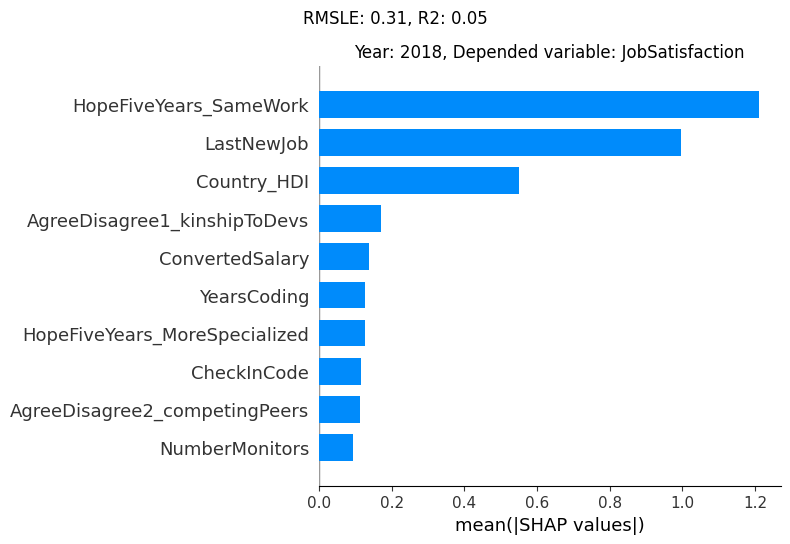
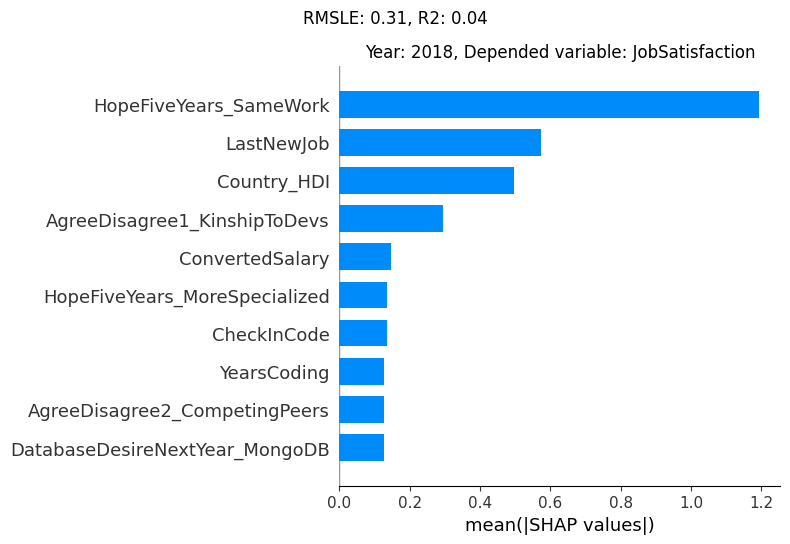
update

diff --git a/code/preprocessor.py b/code/preprocessor.py
@@ -205,9 +205,9 @@ agree_keys = [
     'AgreeDisagree1',
     'AgreeDisagree2',
     'AgreeDisagree3',
-    "AgreeDisagree1_kinshipToDevs",
-    "AgreeDisagree2_competingPeers",
-    "AgreeDisagree3_worseThanPeers",
+    "AgreeDisagree1_KinshipToDevs",
+    "AgreeDisagree2_CompetingPeers",
+    "AgreeDisagree3_WorseThanPeers",
     'AnnoyingUI',
     'BoringDetails',
     'BuildingThings',
@@ -428,6 +428,11 @@ important_strs = {
 }
 
 to_drop_before_start = [
+    'StackOverflowCompanyPage',
+    'StackOverflowJobSearch',
+    'StackOverflowJobListing',
+    'StackOverflowMetaChat',
+    'AssessJobDiversity',
     'CommunicationTools',
     'ExpectedSalary',
     'AdBlocker',
@@ -728,7 +733,7 @@ replacers = [
         "the quality of oss and closed source software is about the same": 1,
         "oss is, on average, of lower quality than proprietary / closed source software": 0,
     }),
-    (['MgrIdiot'], {
+    (['MgrIncompetent', 'MgrIdiot'], {
         "not at all confident": 0,
         "somewhat confident": 1,
         "very confident": 2,
@@ -841,7 +846,9 @@ def preprocess(data, year):
         "HaveWorkedFramework": "FrameworkWorkedWith",
         "HaveWorkedDatabase": "DatabaseWorkedWith",
         "HaveWorkedPlatform": "PlatformWorkedWith",
-        "DeveloperType": "DevType"
+        "DeveloperType": "DevType",
+        "MgrIdiot": "MgrIncompetent",
+        "LastHireDate": "LastNewJob"
     }, inplace=True)
     if year == 2019:
         data.rename(columns={"OpenSource": "OpenSourceQuality",
@@ -851,30 +858,30 @@ def preprocess(data, year):
                     inplace=True)
     elif year == 2018:
         data.rename(columns={"JobSatisfaction": "JobSat7", "CareerSatisfaction": "CareerSat7",
-                             "AgreeDisagree1": "AgreeDisagree1_kinshipToDevs",
-                             "AgreeDisagree2": "AgreeDisagree2_competingPeers",
-                             "AgreeDisagree3": "AgreeDisagree3_worseThanPeers",
-                             "AssessJob1": "AssessJob1_industry",
-                             "AssessJob2": "AssessJob2_companyFinancialStatus",
-                             "AssessJob3": "AssessJob3_department",
-                             "AssessJob4": "AssessJob4_languages",
-                             "AssessJob5": "AssessJob5_compensation",
-                             "AssessJob6": "AssessJob6_companyCulture",
-                             "AssessJob7": "AssessJob7_remoteJob",
-                             "AssessJob8": "AssessJob8_development",
-                             "AssessJob9": "AssessJob9_diversity",
-                             "AssessJob10": "AssessJob10_projectImpact",
-                             "AssessBenefits1": "AssessBenefits1_salary",
-                             "AssessBenefits2": "AssessBenefits2_stockOrShares",
-                             "AssessBenefits3": "AssessBenefits3_healthInsurance",
-                             "AssessBenefits4": "AssessBenefits4_parentalLeave",
-                             "AssessBenefits5": "AssessBenefits5_multisport",
-                             "AssessBenefits6": "AssessBenefits6_retirementPlan",
-                             "AssessBenefits7": "AssessBenefits7_mealsAndSnacks",
-                             "AssessBenefits8": "AssessBenefits8_computerAllowance",
-                             "AssessBenefits9": "AssessBenefits9_childcare",
-                             "AssessBenefits10": "AssessBenefits10_transport",
-                             "AssessBenefits11": "AssessBenefits11_eduBudget",
+                             "AgreeDisagree1": "AgreeDisagree1_KinshipToDevs",
+                             "AgreeDisagree2": "AgreeDisagree2_CompetingPeers",
+                             "AgreeDisagree3": "AgreeDisagree3_WorseThanPeers",
+                             "AssessJob1": "AssessJob1_Industry",
+                             "AssessJob2": "AssessJob2_CompanyFinancialStatus",
+                             "AssessJob3": "AssessJob3_Department",
+                             "AssessJob4": "AssessJob4_Languages",
+                             "AssessJob5": "AssessJob5_Compensation",
+                             "AssessJob6": "AssessJob6_CompanyCulture",
+                             "AssessJob7": "AssessJob7_RemoteJob",
+                             "AssessJob8": "AssessJob8_Development",
+                             "AssessJob9": "AssessJob9_Diversity",
+                             "AssessJob10": "AssessJob10_ProjectImpact",
+                             "AssessBenefits1": "AssessBenefits1_Salary",
+                             "AssessBenefits2": "AssessBenefits2_StockOrShares",
+                             "AssessBenefits3": "AssessBenefits3_HealthInsurance",
+                             "AssessBenefits4": "AssessBenefits4_ParentalLeave",
+                             "AssessBenefits5": "AssessBenefits5_Multisport",
+                             "AssessBenefits6": "AssessBenefits6_RetirementPlan",
+                             "AssessBenefits7": "AssessBenefits7_MealsAndSnacks",
+                             "AssessBenefits8": "AssessBenefits8_ComputerAllowance",
+                             "AssessBenefits9": "AssessBenefits9_Childcare",
+                             "AssessBenefits10": "AssessBenefits10_Transport",
+                             "AssessBenefits11": "AssessBenefits11_EduBudget"
                              }, inplace=True)
     to_drop_first_filtered = list(set(data.columns).intersection(to_drop_before_start))
     data.drop(to_drop_first_filtered, axis=1, inplace=True)

diff --git a/latex/chapters/ch_dodatki.tex b/latex/chapters/ch_dodatki.tex
@@ -109,11 +109,11 @@
         \item \textbf{"StackOverflowAnswer"} - W ciągu ostatnich 3 miesięcy jak często udzieliłeś odpowiedzi na czyjś problem na forum Stack Overflow?
         \item \textbf{"StackOverflowBetter"} - Czy uważasz, że forum Stack Overflow sprawia, że internet jest lepszym miejscem?
         \item \textbf{"StackOverflowCommunity"} - Czy czujesz się jak członek społeczności forum Stack Overflow?
-        \item \textbf{"StackOverflowCompanyPage"} - W ciągu ostatnich 3 miesięcy jak często szukałeś na Stack Overflow informacji o potencjalnym pracodawcy?
+%         \item \textbf{"StackOverflowCompanyPage"} - W ciągu ostatnich 3 miesięcy jak często szukałeś na Stack Overflow informacji o potencjalnym pracodawcy?
         \item \textbf{"StackOverflowCopiedCode"} - W ciągu ostatnich 3 miesięcy jak często skopiowałeś przykład rozwiązania z forum Stack Overflow?
         \item \textbf{"StackOverflowFoundAnswer"} - W ciągu ostatnich 3 miesięcy jak często znalazłeś odpowiedź na swój problem na forum Stack Overflow?
         \item \textbf{"StackOverflowHelpful"} - Czy uważasz, że odpowiedzi na forum Stack Overflow są pomocne?
-        \item \textbf{"StackOverflowJobListing"} - W ciągu ostatnich 3 miesięcy jak często widziałeś na Stack Overflow ofertę pracy, która cię zainteresowała?
+%         \item \textbf{"StackOverflowJobListing"} - W ciągu ostatnich 3 miesięcy jak często widziałeś na Stack Overflow ofertę pracy, która cię zainteresowała?
         \item \textbf{"StackOverflowMetaChat"} - W ciągu ostatnich 3 miesięcy jak często uczestniczyłeś w dyskusji na czacie Stack Overflow?
         \item \textbf{"StackOverflowNewQuestion"} - W ciągu ostatnich 3 miesięcy jak często zadałeś nowe pytanie na Stack Overflow?
         \item \textbf{"StackOverflowSatisfaction"} - Czy lubisz korzystać forum Stack Overflow?
@@ -246,8 +246,8 @@
         \item \textbf{"JobSeekingStatus"} - Czy szukasz obecnie nowej pracy?
         \item \textbf{"LanguageDesireNextYear"} - W jakich językach programowania chciałbyś pisać kod w ciągu następnego roku?
         \item \textbf{"LanguageWorkedWith"} - W jakich językach programowania pisałeś kod w ciągu ostatniego roku?
-        \item \textbf{"LastHireDate"} - Kiedy ostatni raz zmieniałeś pracę?
-        \item \textbf{"MgrIdiot"} - Czy uważasz, że twój menadżer wie co robi / jest kompetentny?
+        \item \textbf{"LastNewJob"} - Kiedy ostatni raz zmieniałeś pracę?
+        \item \textbf{"MgrIncompetent"} - Czy uważasz, że twój menadżer wie co robi / jest kompetentny?
         \item \textbf{"MgrMoney"} - Czy uważasz, że musisz być menadżerem, żeby zarabiać więcej pieniędzy?
         \item \textbf{"MgrWant"} - Czy chciałbyś w przyszłości pracować na stanowisku menadżerskim?
         \item \textbf{"MiscTechDesireNextYear"} - Z jakich narzędzi deweloperskich, bibliotek i frameworków chciałbyś korzystać w ciągu następnego roku?

diff --git a/code/xgb.py b/code/xgb.py
@@ -55,8 +55,8 @@ def get_data(year):
 def fit():
     years = [2017, 2018, 2019]
     for year in years:
-        # for var in regression_dependent_variables:
-        #     fit_model(get_data(year), var, False, f'{year}_{var}', year)
+        for var in regression_dependent_variables:
+            fit_model(get_data(year), var, False, f'{year}_{var}', year)
         for var in class_dependent_variables:
             fit_model(get_data(year), var, True, f'{year}_{var}', year)
 
@@ -71,7 +71,7 @@ def fit_model(data, dependent_variable, is_classifier, name, year):
     X_train, X_test, y_train, y_test = train_test_split(X, y, test_size=0.3, stratify=y)
     estimator.fit(X_train, y_train)
 
-    selection = SelectFromModel(estimator, threshold=.01, prefit=True, max_features=10)
+    selection = SelectFromModel(estimator, prefit=True, max_features=10)
     feature_idx = selection.get_support()
     feature_names = X.columns[feature_idx]
     # print(feature_names)
